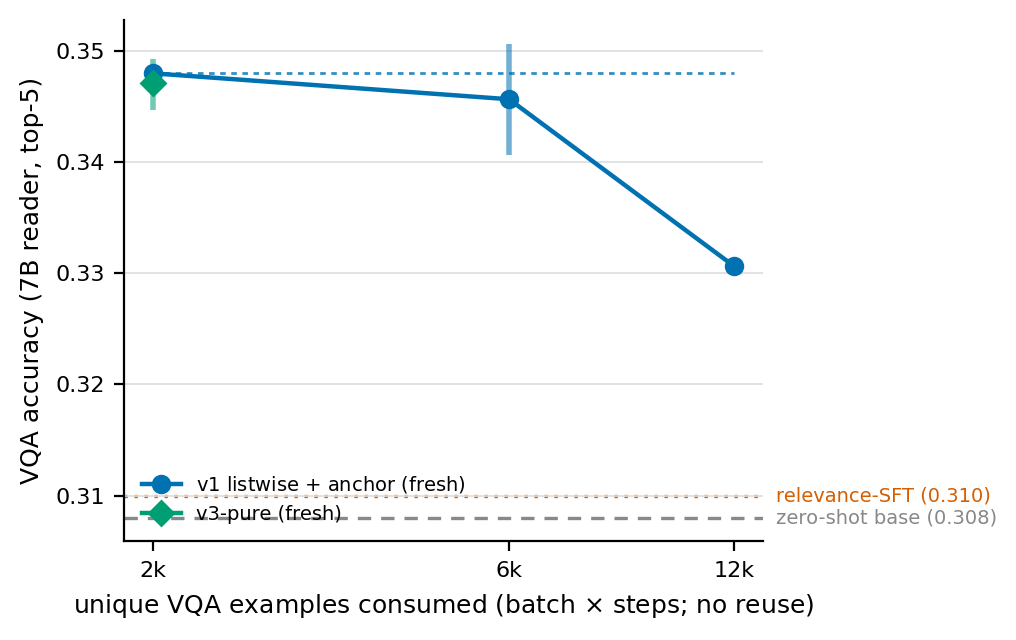
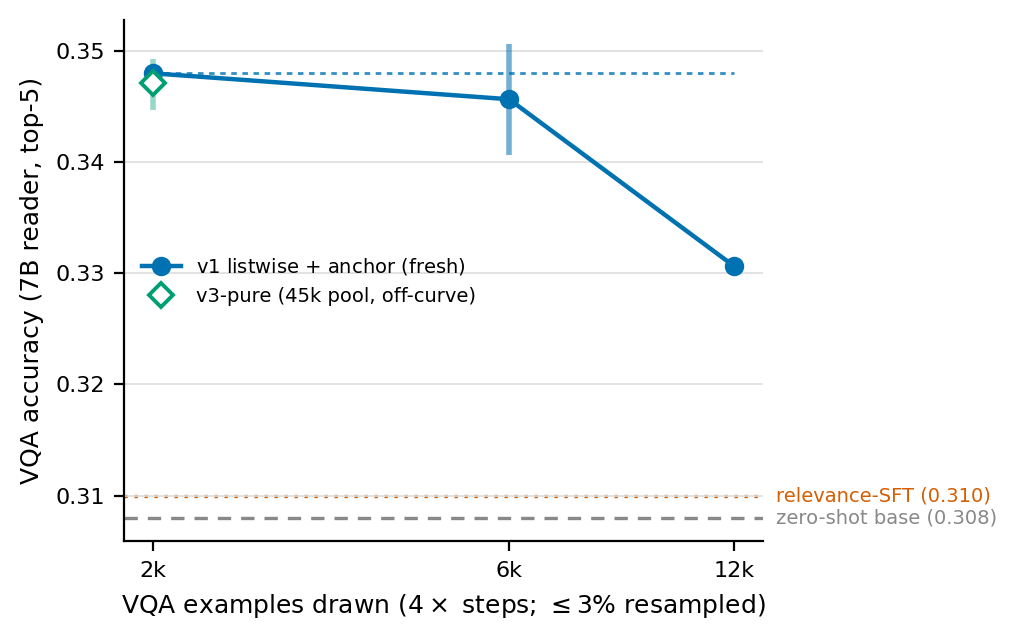
mmrag: "examples drawn", not "unique consumed"; pin each consumption curve to one pool
Runner's R2 correction, verified in the code before applying: train_rl.py:238
re-samples every batch (rng.sample without replacement WITHIN a step, with
replacement ACROSS steps), so 4 x steps counts DRAWS, not unique examples.
Recomputed the birthday bound exactly rather than taking the estimate:
collisions are 0.50% at 2k draws over the 200k pool, 1.48% at 6k, 2.94% at 12k,
and 2.18% for the 45k-pool headline cell at 2k. Axis, caption, table and prose
now say "drawn" and state the collision rate; the script's docstrings carry the
numbers and an explicit "never label this axis 'unique examples'".

R1: v3-rows200k (job 26aba17f) already IS the 2k-draw big-pool v3 cell, so the
caveat becomes a matched pair rather than an unresolved mismatch. The 2k row is
split by pool: 200k-pool (v1 34.80, v3 pending) and 45k-pool (v3 34.71 x3
seeds). Prose reframed -- the pair is not redundant, because the v1
pool-composition controls disagree in sign across budgets, so a matched pair
under v3 measures whether that inconsistency belongs to the recipe or to the
sampling.

Consequence for the figure: each consumption CURVE is now pinned to a single
available-pool size (both v1 and v3 = the 200k pool) so no curve mixes query
distributions. The 45k headline cell moves to a new CONSUMPTION_OFFCURVE path
and is drawn as a hollow unconnected marker -- a real result at that budget, but
not a point of the curve. Without this the v3 series would have averaged the
[…]

diff --git a/mmrag/sec_mm_rag.tex b/mmrag/sec_mm_rag.tex
@@ -381,7 +381,12 @@ MMEB-style contrastive, or GME --- which separates ``the recipe needs a big mode
 recipe needs a model that can already retrieve.'' The small CLIP and SigLIP rungs establish the
 floor at which the annotation-free loop can no longer bootstrap: the reward is informative only
 once the policy's own top-$M$ sometimes contains an answerable passage, which is the same
-condition the gate result above exposes at CLIP-L. At $7$B we currently have only the v1 recorded
+condition the gate result above exposes at CLIP-L. \textsc{CLIP-B/32} sets that floor about as
+low as it can go --- zero-shot entity R@5 of $2.60$ over $422$K passages, which is not
+meaningfully better than drawing at random, against a VQA accuracy of $15.13$ that the reader is
+therefore producing from the image alone. Whether the loop can bootstrap from a retriever that
+starts with no usable signal at all is precisely what the \textsc{CLIP-B/32} v3 cell tests, and
+we have no basis for guessing the answer before it lands. At $7$B we currently have only the v1 recorded
 wave --- zero-shot $30.6$, SFT $32.6$, annotation-free RL $35.1$/$35.3$/$35.3$ across three
 seeds, gold-seeded RL $35.9$ --- measured before the cluster move and therefore not directly
 comparable to the fresh $2$B numbers above; the v3-pure $7$B cell is in flight. We defer the
@@ -401,7 +406,7 @@ inferred from a neighbouring rung.}}
 \cmidrule(lr){3-4}\cmidrule(lr){5-6}\cmidrule(lr){7-8}
 encoder & retrieval pretraining & acc & R@5 & acc & R@5 & acc & R@5 \\
 \midrule
-CLIP-B/32 ($\sim$150M) & CLIP   & \multicolumn{2}{c}{\emph{pending}} & \multicolumn{2}{c}{\emph{pending}} & \multicolumn{2}{c}{\emph{pending}} \\
+CLIP-B/32 ($\sim$150M) & CLIP   & 15.13 & 2.60 & \multicolumn{2}{c}{\emph{pending}} & \multicolumn{2}{c}{\emph{pending}} \\
 CLIP-L ($\sim$430M)    & CLIP   & \multicolumn{2}{c}{\emph{pending}} & \multicolumn{2}{c}{\emph{pending}} & \multicolumn{2}{c}{\emph{pending}} \\
 SigLIP2-so400m         & SigLIP & 13.13 & 8.23 & \multicolumn{2}{c}{\emph{pending}} & \multicolumn{2}{c}{\emph{pending}} \\
 \midrule
@@ -445,11 +450,14 @@ judgements at all --- so the scaling question that matters practically is whethe
 of them buys accuracy. That question is about examples \emph{consumed}, not about examples
 \emph{available}, and the two come apart here: at batch $4$ a $500$-step run touches
 ${\sim}2{,}000$ queries whether the pool holds $12$K or $200$K. Table~\ref{tab:mm_consumption}
-therefore holds the model (\textsc{GME-2B}) and the recipe fixed, draws from the $200$K pool so
-that no example is ever reused, and lets compute follow data: the $x$-axis is unique examples
-consumed, read off intermediate checkpoints as well as final ones so that a run past its peak
-cannot masquerade as a data-limited one (Figure~\ref{fig:mm_consumption}). We report
-best-over-checkpoints for the same reason.
+therefore holds the model (\textsc{GME-2B}) and the recipe fixed, draws from the $200$K pool, and
+lets compute follow data: the $x$-axis is the number of training examples \emph{drawn}
+($4 \times$ steps), read off intermediate checkpoints as well as final ones so that a run past its
+peak cannot masquerade as a data-limited one (Figure~\ref{fig:mm_consumption}). We report
+best-over-checkpoints for the same reason. Draws are near-distinct rather than exactly distinct:
+the trainer samples each batch independently, so an example can recur across steps, but over the
+$200$K pool the birthday bound puts expected collisions at $0.5\%$ at $2$K draws and $2.9\%$ at
+$12$K, the largest budget shown. We write ``drawn'' rather than ``unique'' for that reason.
 
 \emph{Status: the dense curve is in flight and the conclusion is not yet fixed.} We state in
 advance how it will be read, so that neither outcome can be written up as the one we wanted.
@@ -464,13 +472,15 @@ envelope rises across the range once the dense checkpoints land, the growth clai
 and our earlier ``ceiling'' framing was an artefact of reading final-step numbers on over-trained
 runs --- in which case we will say so, and say which reading was wrong.
 
-One methodological caveat we cannot remove by choosing words carefully: the v3 point at $2$K
-consumed is the headline three-seed cell, which drew from \texttt{pool\_train}
+One methodological point, since it would otherwise weaken the comparison exactly where the two
+recipes are closest. The headline three-seed v3 cell draws from \texttt{pool\_train}
 ($\leq 10$ queries per entity), whereas its $6$K and $12$K continuations draw from
-\texttt{pool\_train\_big} ($200$ per entity). The v1 curve is internally consistent because every
-one of its points comes from the same $200$K pool; the v3 curve is not, and the composition
-controls we have disagree in sign at one seed each. The v3 curve's low end should therefore be
-treated as provisional until a $2$K big-pool v3 cell exists.
+\texttt{pool\_train\_big} ($200$ per entity), so taken alone it would make the v3 curve mix two
+query distributions where the v1 curve mixes none. We therefore report the matched
+\texttt{pool\_train\_big} cell at the same budget as the curve's $2$K point and keep the headline
+cell as a second entry beside it. The pair is not redundant: under v1 the analogous
+pool-composition controls disagree in sign across budgets, so a matched pair under v3 measures
+whether that inconsistency is a property of the recipe or of the sampling.
 
 \begin{table}[t]
 \centering\small
@@ -487,7 +497,8 @@ consumed & source & v1 listwise $+$ anchor & v3-pure \\
 \midrule
 $1$K  & ck250 of the $3$K-step run  & \emph{pending} & --- \\
 $2$K  & ck500 of the $3$K-step run  & \emph{pending} & --- \\
-$2$K  & final, $500$ steps          & 34.80 & $\mathbf{34.71 \pm 0.19}$ (3 seeds)$^{\dagger}$ \\
+$2$K  & final, $500$ steps, $200$K pool & 34.80 & \emph{pending} (\texttt{v3-rows200k}) \\
+$2$K  & final, $500$ steps, $45$K pool  & --- & $\mathbf{34.71 \pm 0.19}$ (3 seeds)$^{\dagger}$ \\
 $4$K  & ck1000                      & \emph{pending} & --- \\
 $6$K  & ck1500                      & \emph{pending} & --- \\
 $6$K  & final, $1{,}500$ steps      & 34.57 (2 seeds) & \emph{pending} \\
@@ -498,8 +509,9 @@ $12$K & final, $3{,}000$ steps      & 33.07 & \emph{pending} \\
 \end{tabular}
 
 \vspace{2pt}
-{\footnotesize $^{\dagger}$drawn from \texttt{pool\_train}, not the $200$K pool the other v3 rows
-use --- see the caveat in the text.}
+{\footnotesize $^{\dagger}$drawn from \texttt{pool\_train} ($\leq 10$ queries/entity), not the
+$200$K \texttt{pool\_train\_big} ($200$/entity) the other v3 rows use. Once
+\texttt{v3-rows200k} lands, the two $2$K rows form a matched pool-composition pair under v3.}
 \end{table}
 
 \input{fig_mm_consumption}

diff --git a/mmrag/plot_scaling.py b/mmrag/plot_scaling.py
@@ -68,7 +68,16 @@ SERIES = [
 # pool is the no-reuse guarantee. v3 additionally admits 45,248 because the headline 3-seed cell
 # (500 steps on all of pool_train) is a legitimate 2k-consumed point -- but it is a DIFFERENT
 # query distribution from its own 6k/12k continuations, which the prose flags as provisional.
-CONSUMPTION_AVAIL = {"v1": {200000}, "v3": {200000, 45248}}
+# Each CURVE is pinned to ONE available-pool size so it never mixes query distributions.
+CONSUMPTION_AVAIL = {"v1": {200000}, "v3": {200000}}
+
+# Off-curve markers: same consumption axis, different query distribution, so they are drawn as
+# hollow unconnected points rather than joined into a curve. The v3 headline cell (500 steps on
+# all 45,248 rows of pool_train, <=10 q/entity) is a legitimate 2k-draw result but belongs to a
+# different distribution from its own 6k/12k continuations on pool_train_big (200 q/entity).
+# Once v3-rows200k lands, the matched big-pool cell joins the curve and this marker becomes the
+# composition comparison rather than a substitute for it.
+CONSUMPTION_OFFCURVE = [("v3", "v3-pure", {45248}, "v3-pure (45k pool, off-curve)", "#009E73", "D")]
 
 # Recorded-wave points come from results_summary.json; same config-equivalence idea, but the
 # axes dict is all we have. Reference = the recorded full-pool no-gold cell.
@@ -245,7 +254,8 @@ def draw(ax, points, colour, marker, label, filled=True, lw=2.0):
 
 
 def consumed_of(D, run, a):
-    """Unique examples consumed = batch_size x steps.
+    """Examples DRAWN = batch_size x steps (near-distinct, not exactly unique -- see
+    draw_consumption).
 
     A checkpoint eval is named "<parent>-ck<STEP>"; it inherits the parent's config and its
     step count is the checkpoint's, not the parent's final budget. Everything else consumed
@@ -295,7 +305,10 @@ def collect_consumption(D, ref_run, recipe, avail_rows):
 
 
 def draw_consumption(D, out_path, min_points=3):
-    """Second figure: accuracy vs unique examples consumed, with a best-so-far envelope.
+    """Second figure: accuracy vs examples DRAWN (4 x steps), with a best-so-far envelope.
+
+    "Drawn", not "unique": train_rl.py re-samples each batch, so examples recur across
+    steps at the birthday rate (0.5% at 2k draws over the 200k pool, 2.94% at 12k).
 
     Emits nothing until at least one series has `min_points` points -- a two-point "curve"
     would invite reading a trend that is not measured yet.
@@ -306,6 +319,13 @@ def draw_consumption(D, out_path, min_points=3):
         series.append((recipe, label, colour, marker, pts))
         print(f"  consumption {recipe}: " + (", ".join(
             f"{x}:{[r for r, _ in pts[x]]}" for x in sorted(pts)) or "no points yet"))
+    offcurve = []
+    for recipe, ref_run, avail, label, colour, marker in CONSUMPTION_OFFCURVE:
+        pts = collect_consumption(D, ref_run, recipe, avail)
+        if pts:
+            offcurve.append((label, colour, marker, pts))
+            print(f"  consumption {recipe} OFF-CURVE ({label}): " + ", ".join(
+                f"{x}:{[r for r, _ in pts[x]]}" for x in sorted(pts)))
     if not any(len(pts) >= min_points for *_, pts in series):
         print(f"  consumption figure NOT written — no series has {min_points}+ points yet "
               f"(checkpoint evals in flight). Re-run when they land.")
@@ -336,18 +356,28 @@ def draw_consumption(D, out_path, min_points=3):
             accs = [a for _, a in pts[x]]
             if len(accs) > 1:
                 ax.vlines(x, min(accs), max(accs), color=colour, lw=2, alpha=0.55, zorder=2)
+    for label, colour, marker, pts in offcurve:
+        for x in sorted(pts):
+            accs = [a for _, a in pts[x]]
+            ax.plot([x], [statistics.mean(accs)], marker=marker, ms=6, zorder=3,
+                    markerfacecolor="white", markeredgecolor=colour, markeredgewidth=1.4,
+                    linestyle="none", label=label)
+            if len(accs) > 1:
+                ax.vlines(x, min(accs), max(accs), color=colour, lw=2, alpha=0.4, zorder=2)
+            label = None  # legend entry once
     ax.set_xscale("log")
-    seen = sorted({x for *_, pts in series for x in pts})
+    seen = sorted({x for *_, pts in series for x in pts}
+                  | {x for _l, _c, _m, pts in offcurve for x in pts})
     ax.set_xticks(seen)
     ax.set_xticklabels([f"{x//1000}k" if x >= 1000 else str(x) for x in seen], fontsize=7.5)
-    ax.set_xlabel("unique VQA examples consumed (batch $\\times$ steps; no reuse)", fontsize=9)
+    ax.set_xlabel("VQA examples drawn ($4 \\times$ steps; $\\leq$3% resampled)", fontsize=9)
     ax.set_ylabel("VQA accuracy (7B reader, top-5)", fontsize=9)
     ax.tick_params(labelsize=8)
     ax.minorticks_off()
     for s in ("top", "right"):
         ax.spines[s].set_visible(False)
     ax.grid(axis="y", color="#dddddd", lw=0.6, zorder=0)
-    ax.legend(fontsize=7, frameon=False, loc="lower left")
+    ax.legend(fontsize=7, frameon=False, loc="center left")
     fig.tight_layout()
     for ext in (".pdf", ".png"):
         fig.savefig(out_path + ext, bbox_inches="tight")
@@ -359,7 +389,7 @@ def main():
     ap = argparse.ArgumentParser()
     ap.add_argument("--out", default="mmrag/fig_mm_scaling")
     ap.add_argument("--consumption-out", default="mmrag/fig_mm_consumption",
-                    help="second figure: accuracy vs unique examples consumed")
+                    help="second figure: accuracy vs examples drawn (4 x steps)")
     ap.add_argument("--repo", default=os.path.dirname(os.path.dirname(os.path.abspath(__file__))))
     args = ap.parse_args()
     D = data_dir()
@@ -422,7 +452,7 @@ def main():
     for ext in (".pdf", ".png"):
         fig.savefig(args.out + ext, bbox_inches="tight")
     print("wrote", args.out + ".pdf/.png")
-    print("\n--- consumption axis (unique examples consumed) ---")
+    print("\n--- consumption axis (examples drawn = 4 x steps) ---")
     draw_consumption(D, args.consumption_out)
 
     print("\nPROVENANCE (paste into the figure's REPRO comment):")

diff --git a/mmrag/fig_mm_consumption.tex b/mmrag/fig_mm_consumption.tex
@@ -3,33 +3,44 @@
 %
 % REPRO(fig:mm_consumption):
 %   MMRAG_DATA=<data> python3 mmrag/plot_scaling.py --consumption-out mmrag/fig_mm_consumption
-% x = unique examples consumed = batch_size (4) x steps; checkpoint evals named <parent>-ck<STEP>
+% x = examples DRAWN = batch_size (4) x steps. NOT exactly unique: train_rl.py:238 does
+% rng.sample(rows, batch_size) fresh each step -- no replacement within a step, WITH
+% replacement across steps. Expected collisions (birthday, exact): 0.50% at 2k draws over
+% the 200k pool, 1.48% at 6k, 2.94% at 12k; 2.18% for the 45k-pool headline cell at 2k.
+% Never label this axis 'unique examples'. Checkpoint evals named <parent>-ck<STEP>
 % inherit the parent's config and contribute STEP x batch_size. Series are pinned to the pool
-% sizes in CONSUMPTION_AVAIL so every point is no-reuse and from one query distribution
-% (v1: the 200k pool only; v3 additionally the 45,248 headline cell -- flagged in the prose as a
-% different distribution from its own continuations). max_steps is FREE on this axis (it IS the
-% axis) and pinned on the pool-size axis; the two collectors deliberately differ.
+% sizes in CONSUMPTION_AVAIL so each CURVE stays within one query distribution (both v1 and v3:
+% the 200k pool). The v3 headline cell (45,248-row pool_train) is a legitimate 2k-draw result
+% from a DIFFERENT distribution, so it is drawn via CONSUMPTION_OFFCURVE as a hollow unconnected
+% marker, never joined into the curve. max_steps is FREE on this axis (it IS the axis) and pinned
+% on the pool-size axis; the two collectors deliberately differ.
 % The script refuses to emit until a series has >=3 points, so a 2-point "curve" cannot ship.
 % Dashed overlay = best-so-far envelope, so a run past its peak cannot read as data-limited.
 %
 % Values at the commit that produced the current PDF (v1 fresh, 200k pool):
 %   2k scale-rows200k 0.3480 | 6k scale-rows200k-s1500(+ -s1) 0.3457 (2 seeds) |
-%   12k scale-rows200k-s3000 0.3307;  v3 fresh: 2k v3-pure x3 0.3471
-% IN FLIGHT: v1 scale200k-ck{250,500,1000,1500,2000,2500} (the dense curve),
-%   v3 v3-rows200k-s1500 (6k, job 749f47f6) and v3-rows200k-s3000 (12k, job e89a2ad8).
+%   12k scale-rows200k-s3000 0.3307;  v3 off-curve: 2k v3-pure x3 0.3471 (45k pool)
+% IN FLIGHT: v1 scale200k-ck{250,500,1000,1500,2000,2500} (the dense curve); v3 v3-rows200k
+%   (2k big-pool, job 26aba17f -- the point that puts v3 ON the curve), v3-rows200k-s1500
+%   (6k, job 749f47f6), v3-rows200k-s3000 (12k, job e89a2ad8).
 % Regenerate when they land -- the figure picks them up with no edit to the script.
 \begin{figure}[t]
 \centering
 \includegraphics[width=0.66\textwidth]{fig_mm_consumption.pdf}
-\caption{\textbf{Data scaling on the axis that matters: examples actually consumed.} Downstream
-VQA accuracy against the number of unique (image, question, answer) triples the run has consumed
-(batch $\times$ steps), holding the model (\textsc{GME-Qwen2-VL-2B}) and the recipe fixed and
-drawing from the $200$K pool so that no example is reused. Compute follows data by construction,
+\caption{\textbf{Data scaling on the axis that matters: examples actually drawn.} Downstream
+VQA accuracy against the number of (image, question, answer) triples the run has drawn
+($4 \times$ steps), holding the model (\textsc{GME-Qwen2-VL-2B}) and the recipe fixed and drawing
+from the $200$K pool. Draws are near-distinct: each batch is sampled independently, so an example
+can recur across steps, but the birthday bound over the $200$K pool caps expected collisions at
+$2.9\%$ at $12$K draws and $0.5\%$ at $2$K. Compute follows data by construction,
 so this is the curve that answers ``does collecting more cheap VQA supervision buy accuracy?''
 --- unlike the fixed-compute control in Figure~\ref{fig:mm_scaling}, where enlarging the pool
 changes nothing because the consumed count does not move. Dashed overlay is the best-so-far
-envelope, drawn so that a run past its peak cannot be misread as data-limited. \textbf{The dense
-intermediate-checkpoint cells are still in flight}; the points shown are final-step runs, and the
-paragraph text states in advance how either shape will be read.}
+envelope, drawn so that a run past its peak cannot be misread as data-limited. Hollow markers are
+results at the same budget from a different query distribution (the v3 headline cell on the
+$45$K pool), shown unconnected because they are not points of the curve. \textbf{The dense
+intermediate-checkpoint cells and every v3 curve point are still in flight}; the joined points
+shown are final-step v1 runs, and the paragraph text states in advance how either shape will be
+read.}
 \label{fig:mm_consumption}
 \end{figure}
